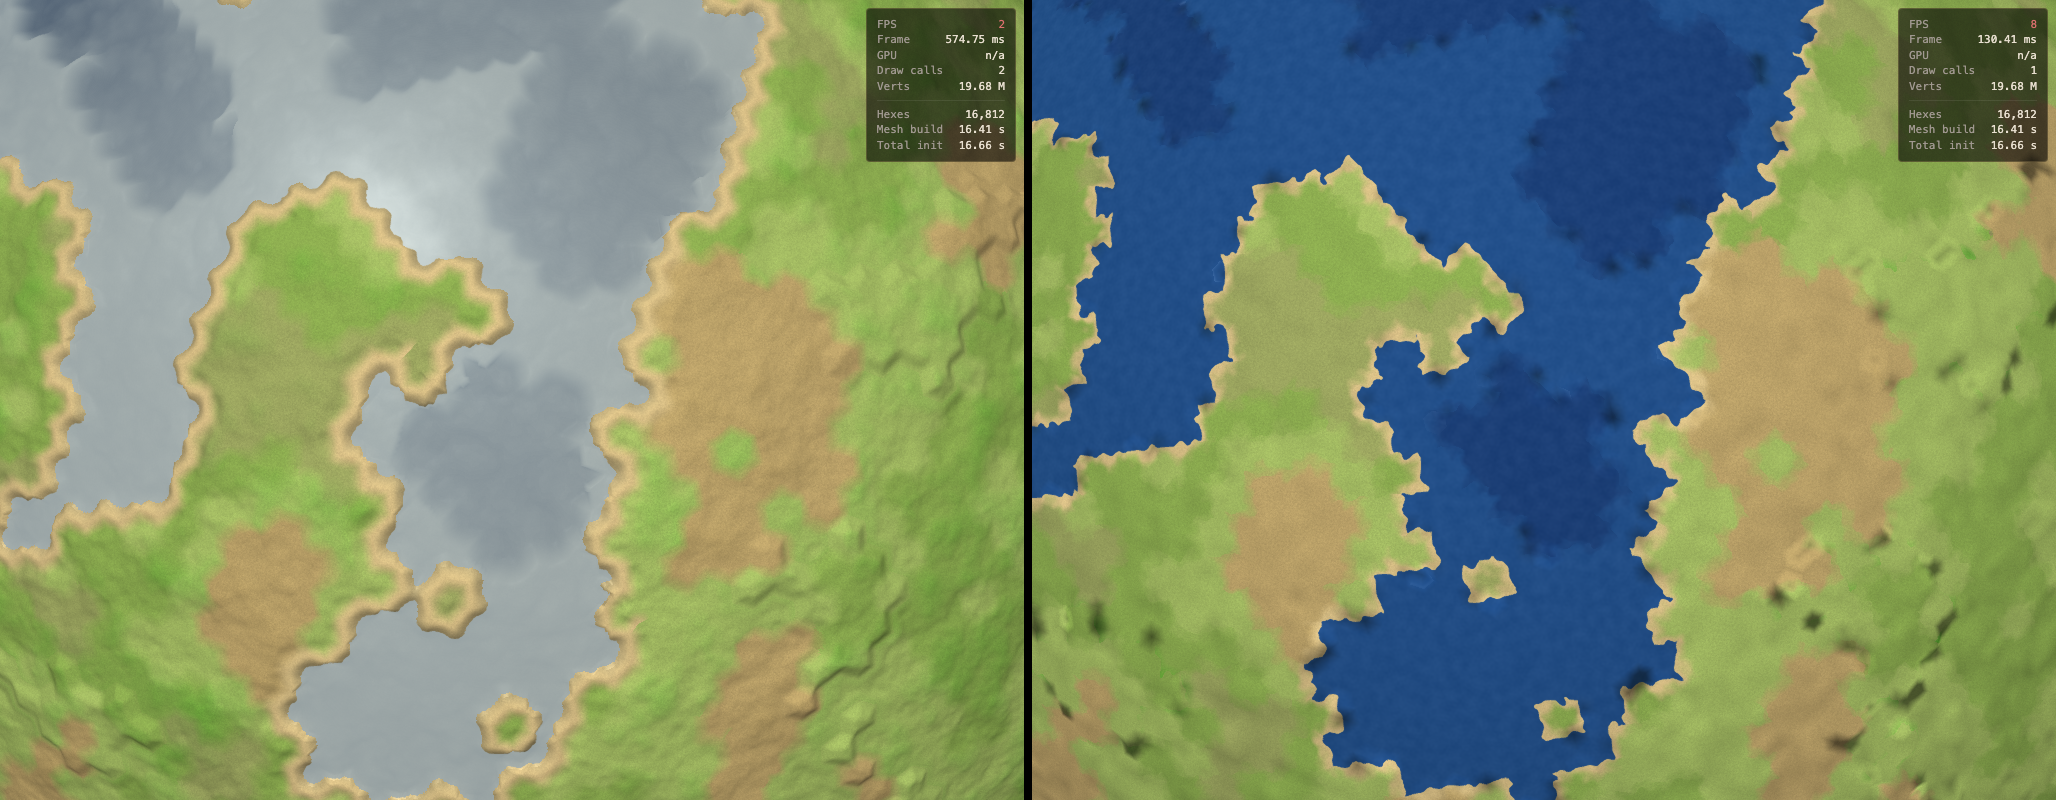
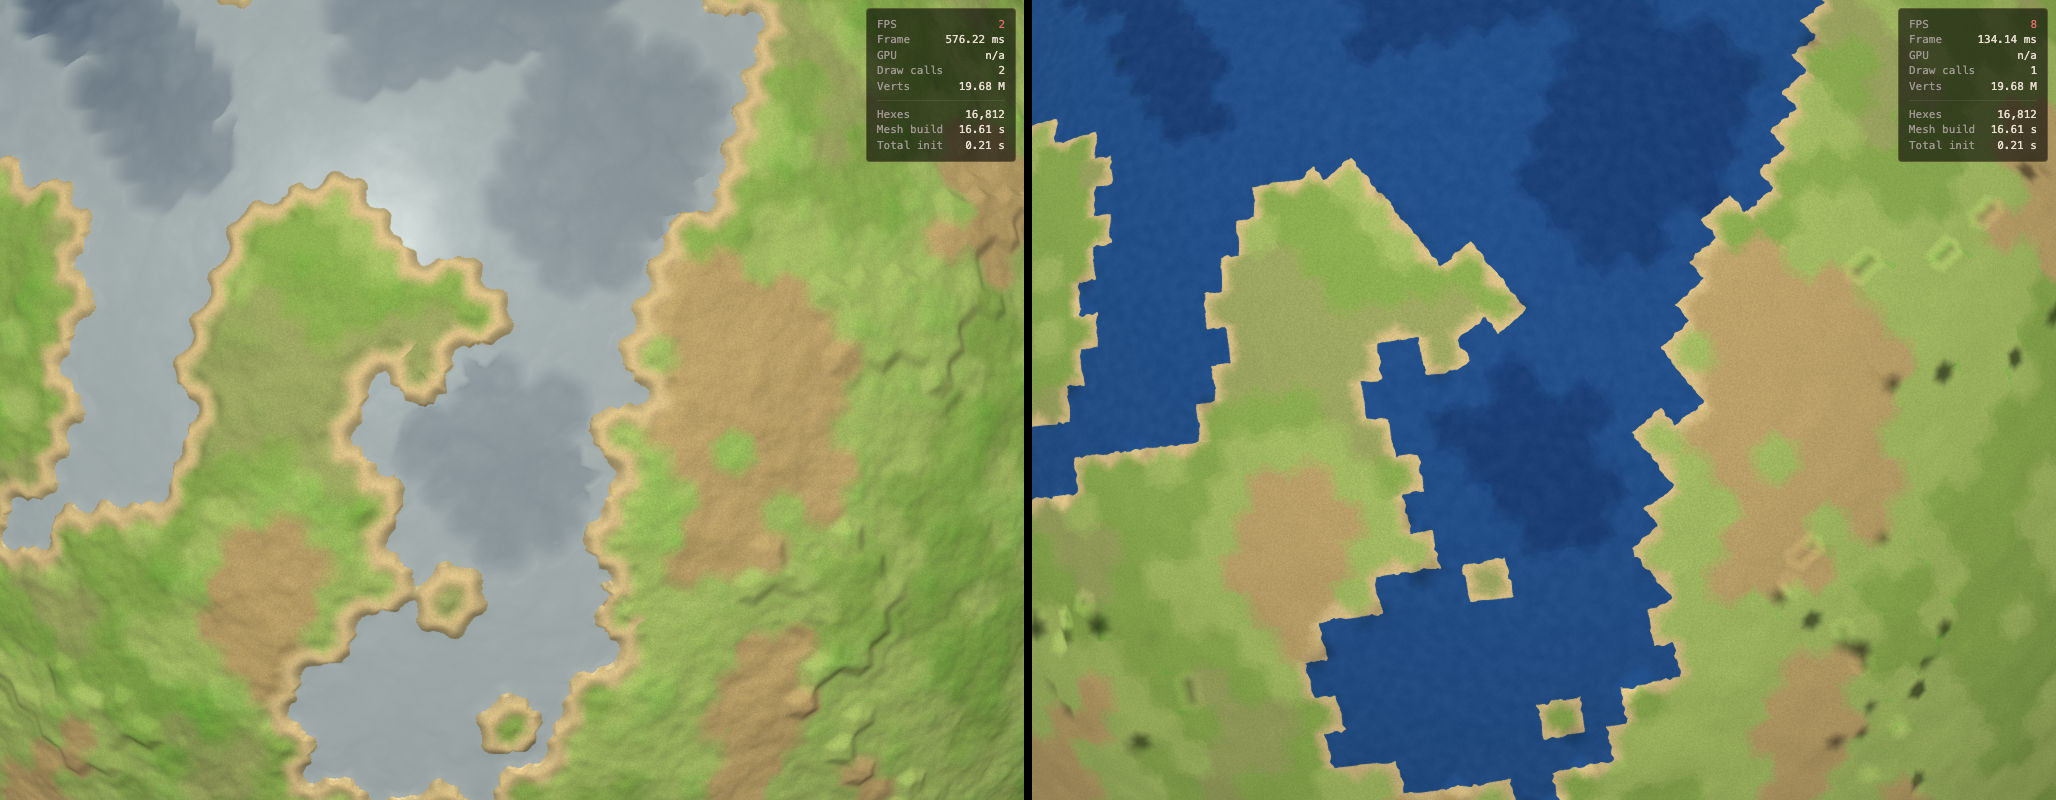
Tame noise + clearer hexes + black-dot fallback
User feedback (4 issues):

1. "Cliff noise is ridiculously high it does not match the actual cliff
   geometry at all."
   - cliffNoiseAmp 0.010 -> 0.003. Then SCALE BY heightDelta inside the
     shader: deltaScale = clamp(trueHeightDelta / 0.030, 0, 1). A small
     tier-2-to-3 cliff (32 km drop) now gets at most 32 km × 0.03/0.03
     × 0.003R = ~6 km of noise -- proportional, not 64 km. Big tier-0-
     to-4 cliffs still get full noise amplitude.

2. "Terrain is full of black dots that clearly are not intentional."
   - Smooth-normal cross product collapses when tangent samples hit a
     perfectly flat region: cross magnitude = 0 -> normalize gives NaN/
     zero -> black pixel. Added magnitude check; falls back to radial-
     out direction (normPos) when crossMag^2 < 1e-10.

3. "Terrains no longer look low poly but its still too rough and
   unrefined compared to the original."
   - interiorNoiseAmp 0.0025 -> 0.0015 (~10 km amp from ~16 km).
   - interiorNoiseFreq 20 -> 12 (longer-wavelength rolling hills rather
     than fine roughness).

4. "Each hex really needs to look like a hex. Right now the height
   difference just produce really strange slopes and cliffs."
   - Strategy 3 transition narrowed 0.15 -> 0.08 (last 8% of edge gets
     the ramp instead of last 15%). 92% of every hex is now flat top --
     the cliff transition is sharper and the hex's own flat plateau
     dominates the visual.
   - Cliffness band matched: smoothstep(0, 0.08, edgeDistNorm).
[…]

diff --git a/src/lib/engine/shader-globe-material.ts b/src/lib/engine/shader-globe-material.ts
@@ -366,10 +366,12 @@ vec2 phase5AndPhase6Displacement(vec3 P, float ownLevel) {
     float nbTierH  = tierHeight(nbLevel);
     float trueHeightDelta = abs(nbTierH - ownTierH);
 
-    // Strategy 3: flat hex top + sharp transition near edge. The "0.15"
-    // is the plan's edge-band fraction (last 15% of edge distance gets the
-    // ramp).
-    float t = smoothstep(0.0, 0.15, edgeDistNorm);
+    // Strategy 3: flat hex top + sharp transition near edge. Narrower
+    // ramp band (0.08 vs the plan's 0.15) gives each hex a clearer flat
+    // top -- 92% of the hex is flat, only the outer 8% is the cliff
+    // ramp. Critical for "hexes need to look like hexes" -- otherwise
+    // the ramp eats too much of the hex face.
+    float t = smoothstep(0.0, 0.08, edgeDistNorm);
     float strategyH = mix(nbH, ownH, t);
     float h = strategyH;
 
@@ -394,7 +396,7 @@ vec2 phase5AndPhase6Displacement(vec3 P, float ownLevel) {
     // get nothing, single-tier-step (delta=0.005) gets ~63% activity,
     // double-tier-step (delta=0.010) saturates. Audit-flagged: the prior
     // 0.012 underrepresented single-tier transitions.
-    float cliffness = 1.0 - smoothstep(0.0, 0.15, edgeDistNorm);
+    float cliffness = 1.0 - smoothstep(0.0, 0.08, edgeDistNorm);
     // Use the tier-table delta (not the post-flatten delta) so coastlines
     // (water tier 0/1 -> land tier 2/3/4) trigger cliff noise even though
     // both sides display at h=0.
@@ -406,7 +408,16 @@ vec2 phase5AndPhase6Displacement(vec3 P, float ownLevel) {
         float n =  snoise(nP)         * 0.55
                  + snoise(nP * 2.07)   * 0.30
                  + snoise(nP * 4.13)   * 0.15;
-        h += cliffActivity * n * cliffNoiseAmp;
+        // Scale noise amplitude by heightDelta so cliff bumpiness is
+        // proportional to the actual cliff drop. Without this, a 32 km
+        // tier-2-to-tier-3 cliff was getting 64 km of noise -- bigger than
+        // the cliff itself, which read as wild bumps not matching geometry.
+        // Scale factor: heightDelta in units of fraction-of-radius, max
+        // ~0.030 (deepest water to highest mountain). So at max delta,
+        // noise can be at most cliffNoiseAmp * 0.030 / 0.030 = cliffNoiseAmp.
+        // Keeps noise <= ~ heightDelta in magnitude.
+        float deltaScale = clamp(trueHeightDelta / 0.030, 0.0, 1.0);
+        h += cliffActivity * n * cliffNoiseAmp * deltaScale;
 
         // Stratification: horizontal rock layers banded at *constant
         // altitude*. The audit caught the prior code projecting onto cliff
@@ -506,10 +517,16 @@ void main() {
     computeHexLookup(normPos);
     float h = (length(displaced0) - planetRadius) / planetRadius;
 
-    // Smooth normal from cross product of surface tangents.
+    // Smooth normal from cross product of surface tangents. Fallback to
+    // the radial-out direction when the cross-product magnitude is too
+    // small (tangent samples landed on a perfectly flat surface, or
+    // numerical precision collapsed). Without the fallback, normalize
+    // produced NaN/0 -> "black dots" in the rendered terrain.
     vec3 surfT1 = displaced_a - displaced0;
     vec3 surfT2 = displaced_b - displaced0;
-    vec3 N = normalize(cross(surfT1, surfT2));
+    vec3 N_cross = cross(surfT1, surfT2);
+    float crossMag2 = dot(N_cross, N_cross);
+    vec3 N = (crossMag2 > 1e-10) ? N_cross / sqrt(crossMag2) : normPos;
     if (dot(N, normPos) < 0.0) N = -N; // ensure outward orientation
 
     vec4 wp = world * vec4(displaced0, 1.0);
@@ -606,18 +623,17 @@ void main() {
     } else {
         // Perturb the hex lookup position with a small noise displacement
         // so coast and biome boundaries don't follow the perfect 60-degree
-        // hex edges. The noise amplitude must stay below the hex apothem
-        // in unit-sphere terms (~ 0.5/(res+1) = 0.012 at res=40) so most
-        // fragments still land in their own hex; only fragments within
-        // ~AMP of an edge see the noise potentially flip them to the
-        // neighbor. Result: coastlines, biome borders, and cliff lines
-        // are all wavy rather than hex-aligned.
+        // hex edges. Amp 0.0015 unit-sphere = ~12% of hex apothem -- enough
+        // to soften coast edges (the user's "blurry intersection" was the
+        // OPPOSITE problem at amp 0.004) but small enough that inland hex
+        // shapes stay clearly hex-readable. Higher freq (120) gives finer
+        // coast wavelets rather than wide boundary deformation.
         vec3 boundaryNoise = vec3(
-            snoise(P * 80.0),
-            snoise(P * 80.0 + vec3(100.0, 0.0, 0.0)),
-            snoise(P * 80.0 + vec3(0.0, 100.0, 0.0))
+            snoise(P * 120.0),
+            snoise(P * 120.0 + vec3(100.0, 0.0, 0.0)),
+            snoise(P * 120.0 + vec3(0.0, 100.0, 0.0))
         );
-        vec3 P_lookup = normalize(P + boundaryNoise * 0.004);
+        vec3 P_lookup = normalize(P + boundaryNoise * 0.0015);
 
         computeHexLookup(P_lookup);
         float hexIdF = g_hexId;
@@ -797,23 +813,22 @@ const FRAGMENT =
 // 1 / cliffStrataFreq fraction of planetRadius. freq=300 gives bands
 // every ~21 km, so ~5-10 visible bands across a tier transition.
 const PHASE6_DEFAULTS = {
-	// Cliff noise frequency must be HIGH enough that the noise varies
-	// meaningfully within the 12 km cliff transition band (15% of hex
-	// apothem). At freq=6 the noise period was 169 km -- the whole cliff
-	// band shifted uniformly per region, so coastlines stayed hex-aligned.
-	// Freq=40 -> period ~25 km, half a cycle across the cliff band ->
-	// visible per-hex boundary wiggle. Amp bumped 0.005 -> 0.010 so the
-	// coastline-shift effect (horizontal shift = vert noise / cliff slope)
-	// is visible at planet-scale views.
-	cliffNoiseAmp: 0.010,
+	// Cliff noise: amp scaled by heightDelta inside the shader so the
+	// effective amplitude is at most ~ heightDelta. Base amp 0.003R
+	// gives ~19 km peak noise at the largest cliffs (full water-to-
+	// mountain delta), proportionally less for smaller cliffs. Freq 40
+	// gives period ~25 km so noise varies within the 8% cliff band.
+	cliffNoiseAmp: 0.003,
 	cliffNoiseFreq: 40.0,
-	cliffStrataAmp: 0.0008,
+	// Stratification subtle by default; user can dial up via the API.
+	cliffStrataAmp: 0.0006,
 	cliffStrataFreq: 300.0,
-	// Interior noise stays gentle so dFdx/dFdy normals don't see every
-	// per-triangle slope as a cliff. 0.0025R / freq 20 keeps the surface
-	// readable as bumpy plains without lighting up the slab-rock branch.
-	interiorNoiseAmp: 0.0025,
-	interiorNoiseFreq: 20.0,
+	// Interior noise: gentle and low-frequency for smooth rolling hills.
+	// Lower freq (12 vs 35 in legacy) gives bigger valleys / hills rather
+	// than fine-grained roughness; lower amp (0.0015) keeps the surface
+	// readable as continuous terrain rather than choppy.
+	interiorNoiseAmp: 0.0015,
+	interiorNoiseFreq: 12.0,
 };
 
 export interface ShaderGlobeMaterialOptions {
